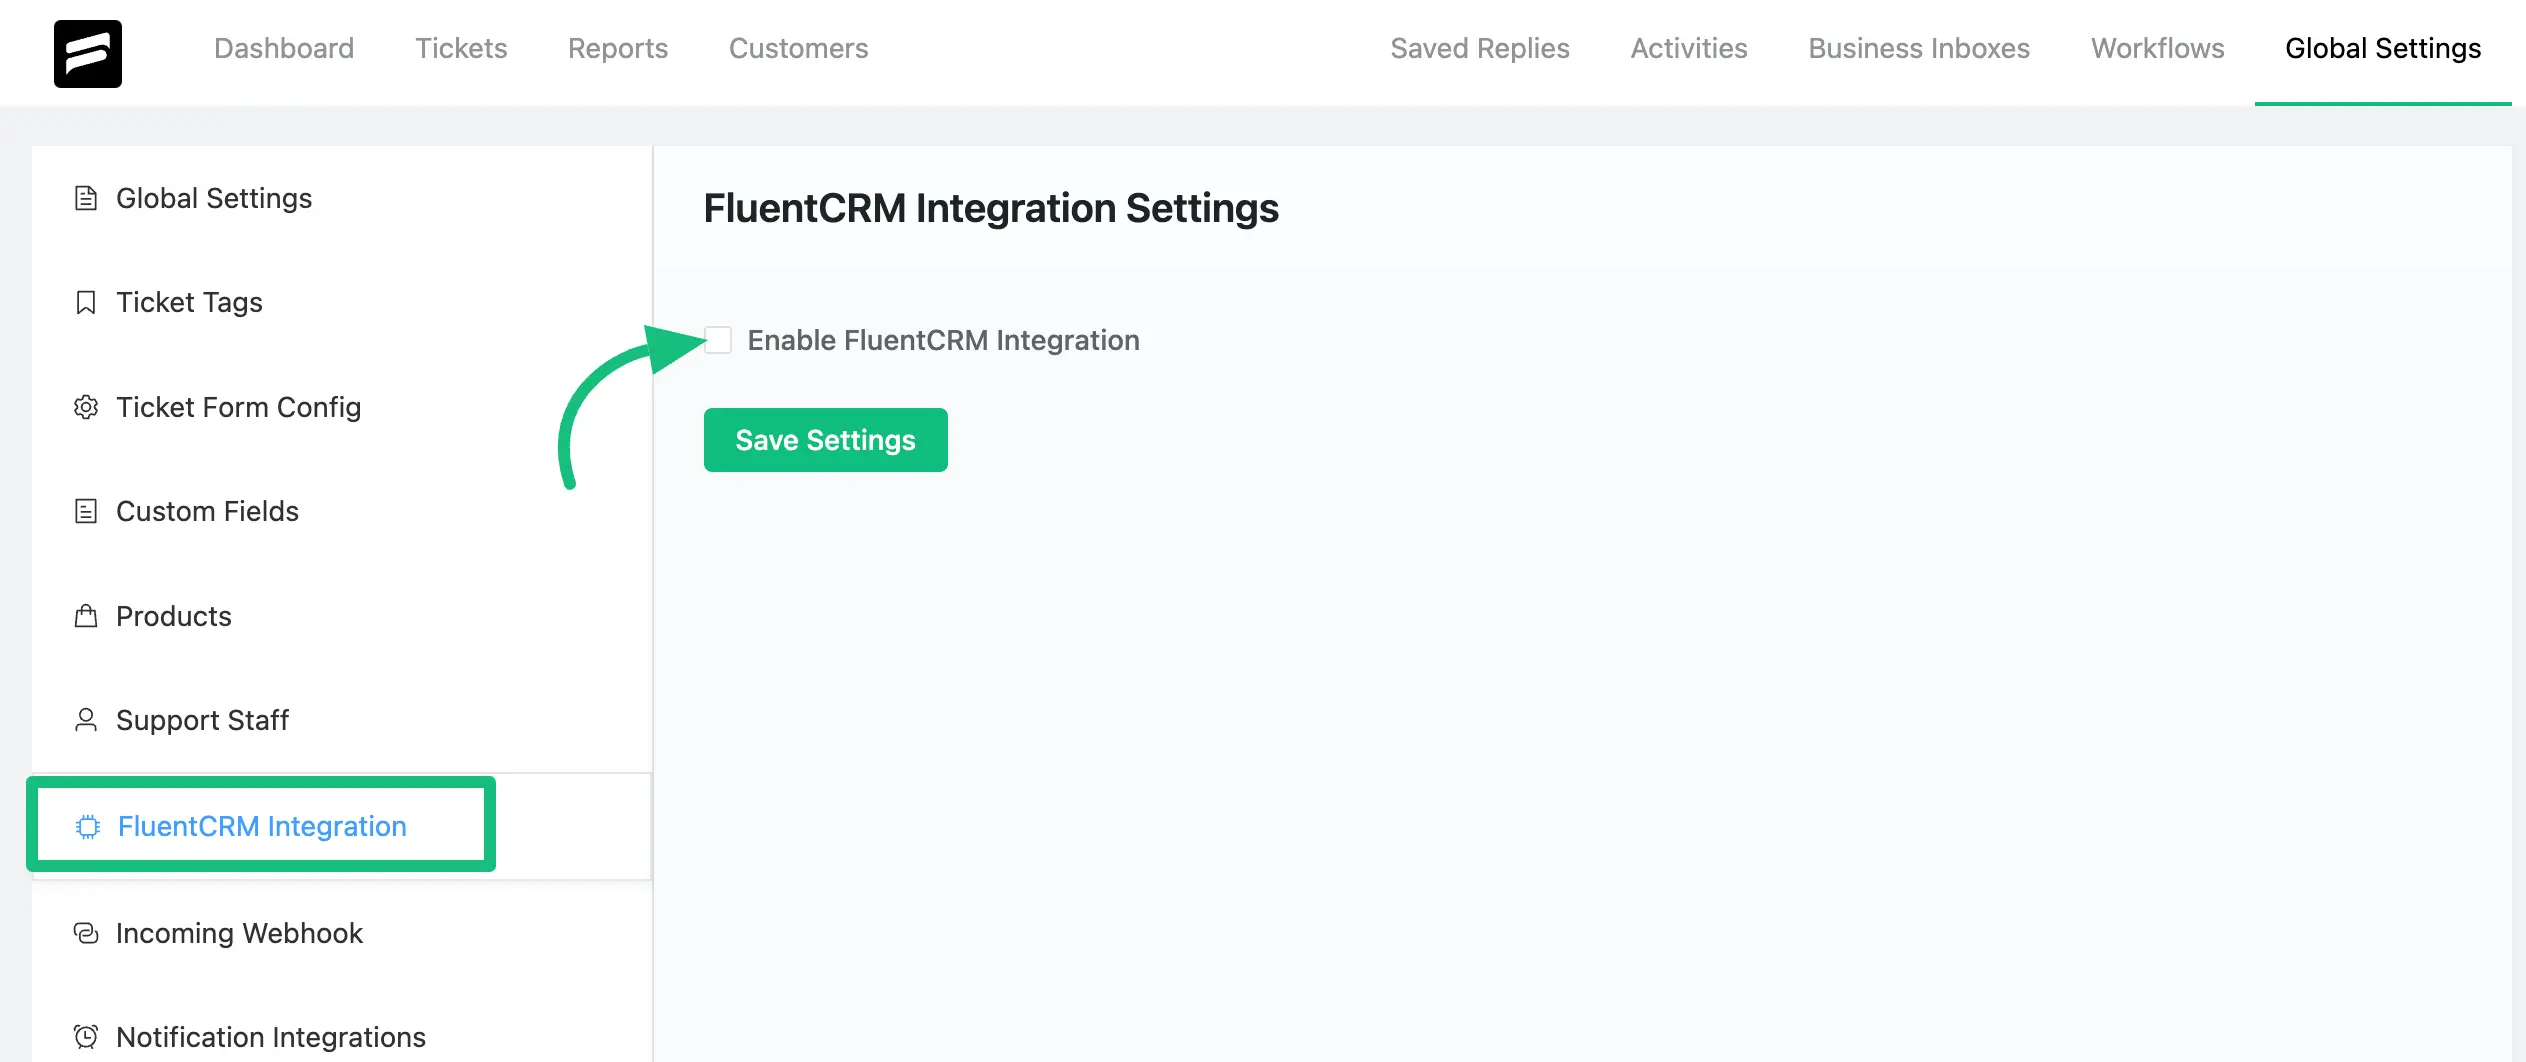
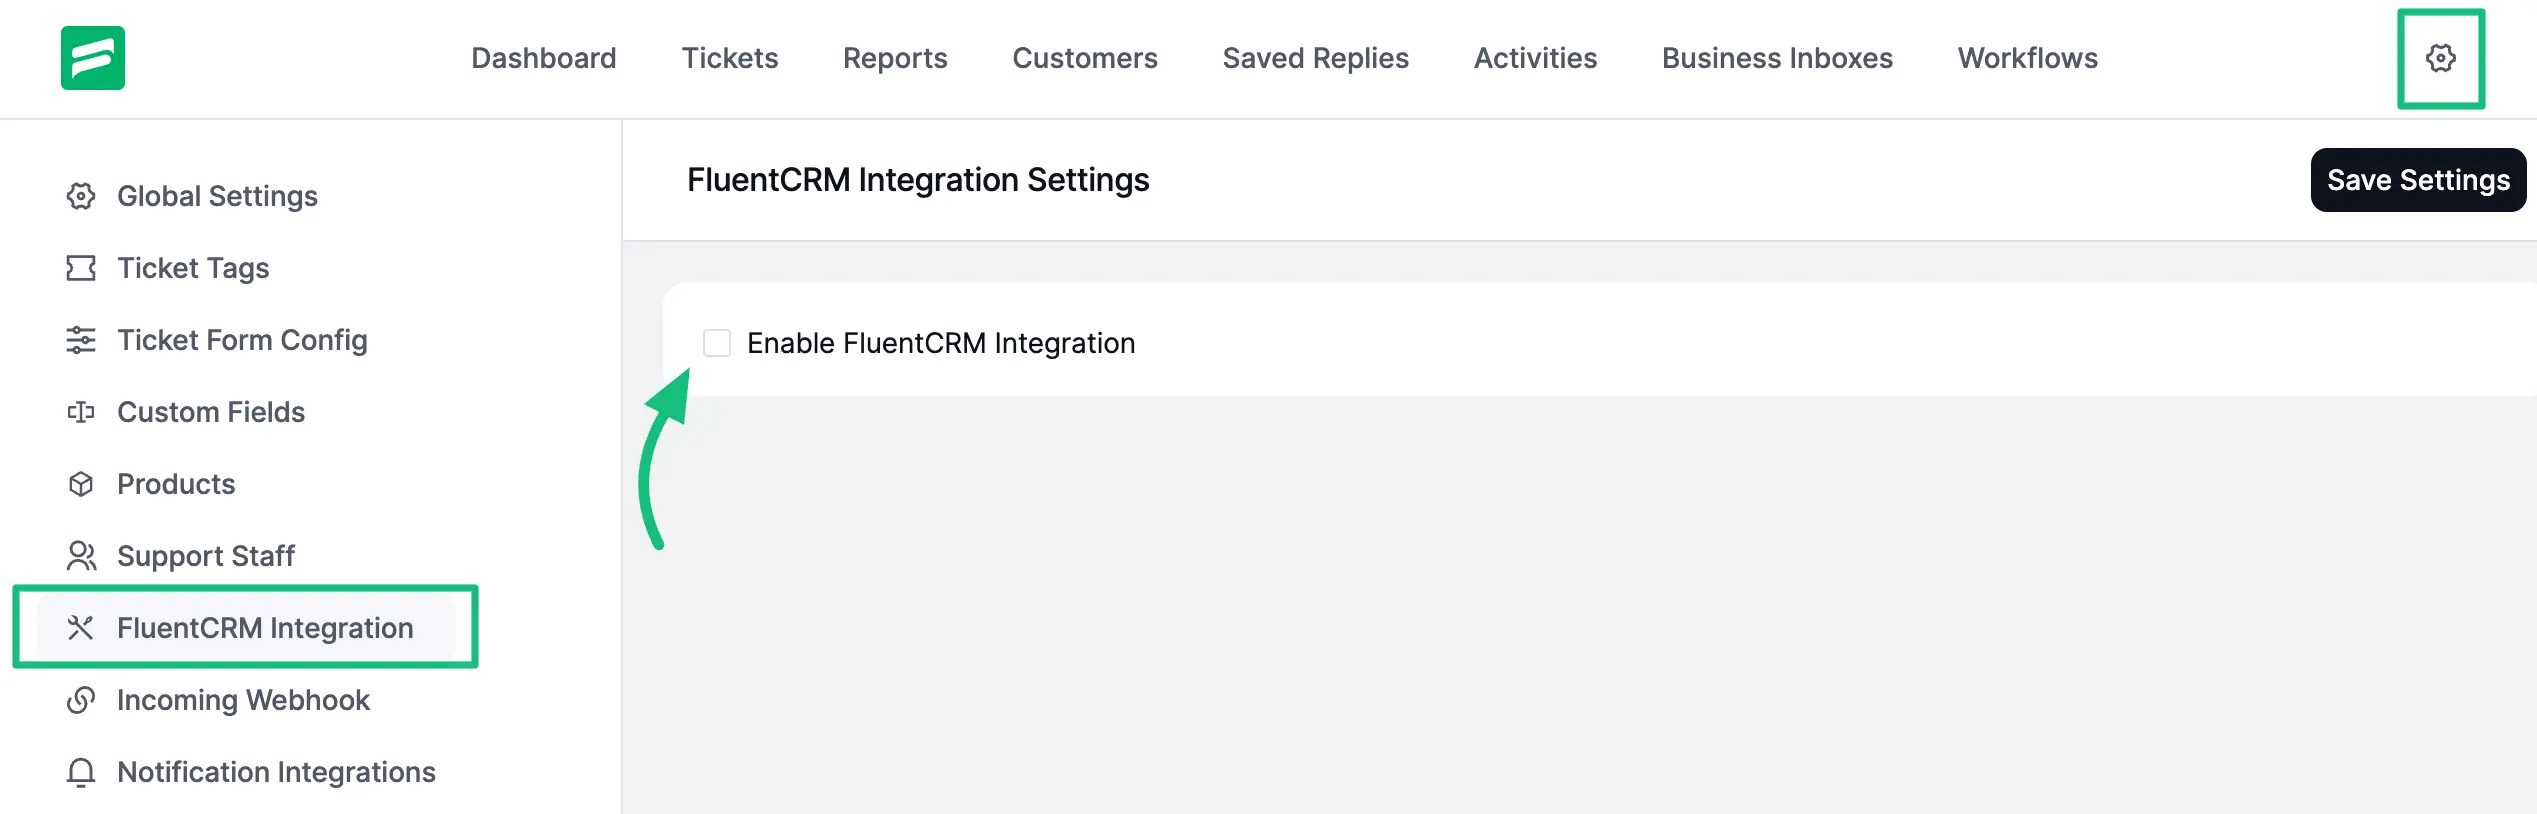
FCRM Doc update
FCRM Doc update

diff --git a/guide/integrations-channels/core-integrations/fluentcrm-integration.md b/guide/integrations-channels/core-integrations/fluentcrm-integration.md
@@ -21,7 +21,7 @@ Now, set the default status for new contacts. If you choose **Pending** , a doub
   
 Also, you can add the user to your **FluentCRM** **List** or include your users in various **Tags** using the dropdown menus by clicking the **arrow icon.** Once your integration set-up is complete, click on the **Save Settings** button.
 
-![Fluent CRM Integration Settings options](/guide/public/images/integrations-channels/core-integrations/fluentcrm-integration/default-status-dropdown-menus-save-settings-1.webp)
+![Fluent CRM Integration Settings options](/guide/public/images/integrations-channels/core-integrations/fluentcrm-integration/default-status-dropdown-menus-save-settings-2.webp)
 
 This is how you can complete the FluentCRM integration with Fluent Support!  
 
